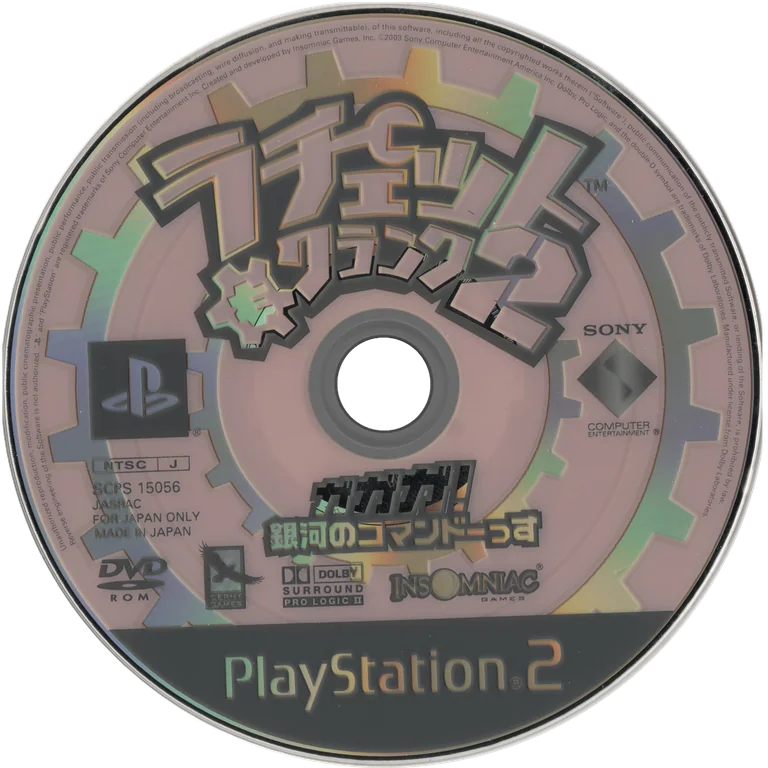
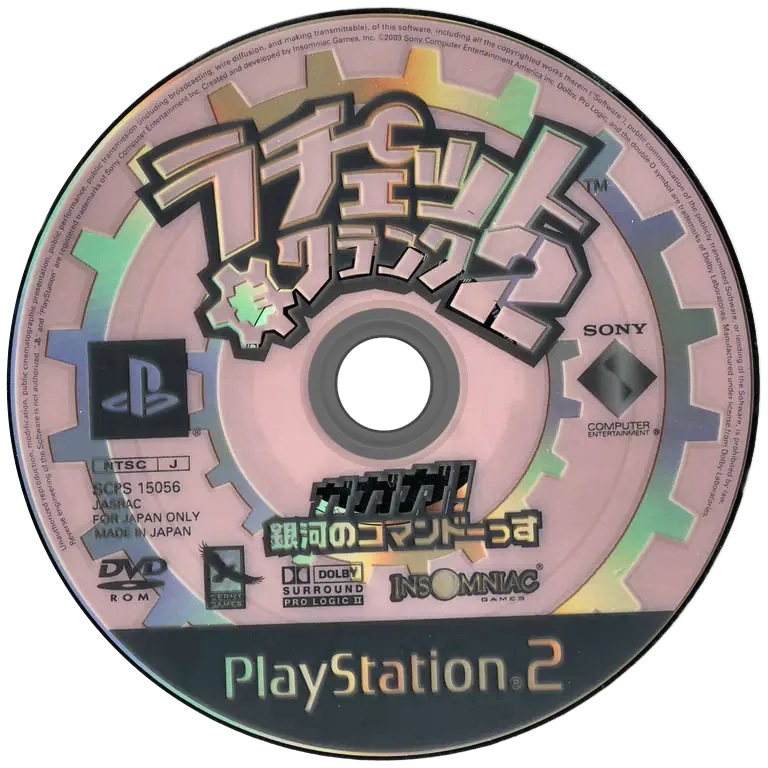
feat(launcher): Japanese discs for every game, Korean shows them
Ratchet & Clank, Up Your Arsenal and Size Matters get their Japanese disc
from photos, straightened, with reflections removed and the light evened
to match the scans; Going Commando's and Deadlocked's are evened the same
way. Korean versions show the Japanese print.

diff --git a/launcher/src/lib/discArt.ts b/launcher/src/lib/discArt.ts
@@ -6,21 +6,21 @@
 import { storeArtwork } from "./media";
 
 /** The regions each game has a print of: the North American disc (ntsc), the European (pal) and the
- *  Japanese (jp). No scan of the other Japanese discs, nor of any Korean one, was found. */
+ *  Japanese (jp). Secret Agent Clank had no PS2 release in Asia. */
 const PRINTS: Record<string, string[]> = {
-  rac1: ["ntsc", "pal"],
+  rac1: ["ntsc", "pal", "jp"],
   rac2: ["ntsc", "pal", "jp"],
-  rac3: ["ntsc", "pal"],
+  rac3: ["ntsc", "pal", "jp"],
   rac4: ["ntsc", "pal", "jp"],
-  rac5: ["ntsc", "pal"],
+  rac5: ["ntsc", "pal", "jp"],
   rac6: ["ntsc", "pal"],
 };
 
-/** The region of a version of game.json, by its name (`pal1`: pal, `jp`: jp, `ntsc2`: ntsc). */
+/** The print region of a version of game.json, by its name (`pal1`: pal, `jp`: jp, `ntsc2`: ntsc).
+ *  Korean discs show the Japanese print (user decision: no scan of one exists). */
 function region(version: string): string {
   if (version.startsWith("pal")) return "pal";
-  if (version === "jp" || version === "ntsc-j") return "jp";
-  if (version === "kr" || version === "ntsc-k") return "kr";
+  if (["jp", "ntsc-j", "kr", "ko", "ntsc-k"].includes(version)) return "jp";
   return "ntsc";
 }
 

diff --git a/launcher/src/lib/discArt.test.ts b/launcher/src/lib/discArt.test.ts
@@ -10,8 +10,12 @@ describe("discPrint", () => {
   });
 
   it("shows the North American disc for a region without a print", () => {
-    expect(discPrint("rac1", "jp")).toBe("/img/discs/rac1-ntsc.webp");
-    expect(discPrint("rac3", "kr")).toBe("/img/discs/rac3-ntsc.webp");
+    expect(discPrint("rac6", "jp")).toBe("/img/discs/rac6-ntsc.webp");
+  });
+
+  it("shows the Japanese print for Korean discs", () => {
+    expect(discPrint("rac1", "jp")).toBe("/img/discs/rac1-jp.webp");
+    expect(discPrint("rac3", "kr")).toBe("/img/discs/rac3-jp.webp");
   });
 
   it("has no print for another game", () => {

diff --git a/launcher/scripts/disc_prints.py b/launcher/scripts/disc_prints.py
@@ -8,9 +8,13 @@ pal (Europe) and jp (Japan): the scan cut to the disc, at most 768 px square. Th
 are the ones Cartouche uses (github.com/Hakimba/cartouche, app/data/art/ps2.tsv); the Japanese ones
 come from archive.org, as no game database has them. Needs Pillow, NumPy and curl.
 
-No scan was found of Ratchet & Clank's, Up Your Arsenal's or Size Matters' Japanese disc, nor of any
-Korean disc (searched: LaunchBox, PSX Data Center, archive.org). Secret Agent Clank had no PS2
-release in Asia. A region without a print shows the North American one (src/lib/discArt.ts).
+The Japanese prints are kept as they are (KEEP): Going Commando's and Deadlocked's come from the
+scans below, Ratchet & Clank's, Up Your Arsenal's and Size Matters' from photos (no scan exists),
+all straightened to a circle, with reflections painted out, the silver band redrawn grey and the
+light and colour evened to match the other prints; Ratchet & Clank's is the PBPX-95516 print, the
+same art as the retail disc. Korean discs show the Japanese print (user decision; no scan of one
+exists), and Secret Agent Clank had no PS2 release in Asia. A region without a print shows the
+North American one (src/lib/discArt.ts).
 
 Secret Agent Clank's PAL disc is not a scan: its only scan with a print is 226 px, so it is a
 photo of the disc, straightened, white-balanced on its white and black and given the hub of Up
@@ -53,7 +57,7 @@ HUB_FROM = {
 HUB = 0.2
 
 # Made otherwise (the module's notes): the script does not write these.
-KEEP = {("rac6", "pal")}
+KEEP = {("rac6", "pal"), ("rac1", "jp"), ("rac2", "jp"), ("rac3", "jp"), ("rac4", "jp"), ("rac5", "jp")}
 
 
 def fetch(url: str) -> bytes:
